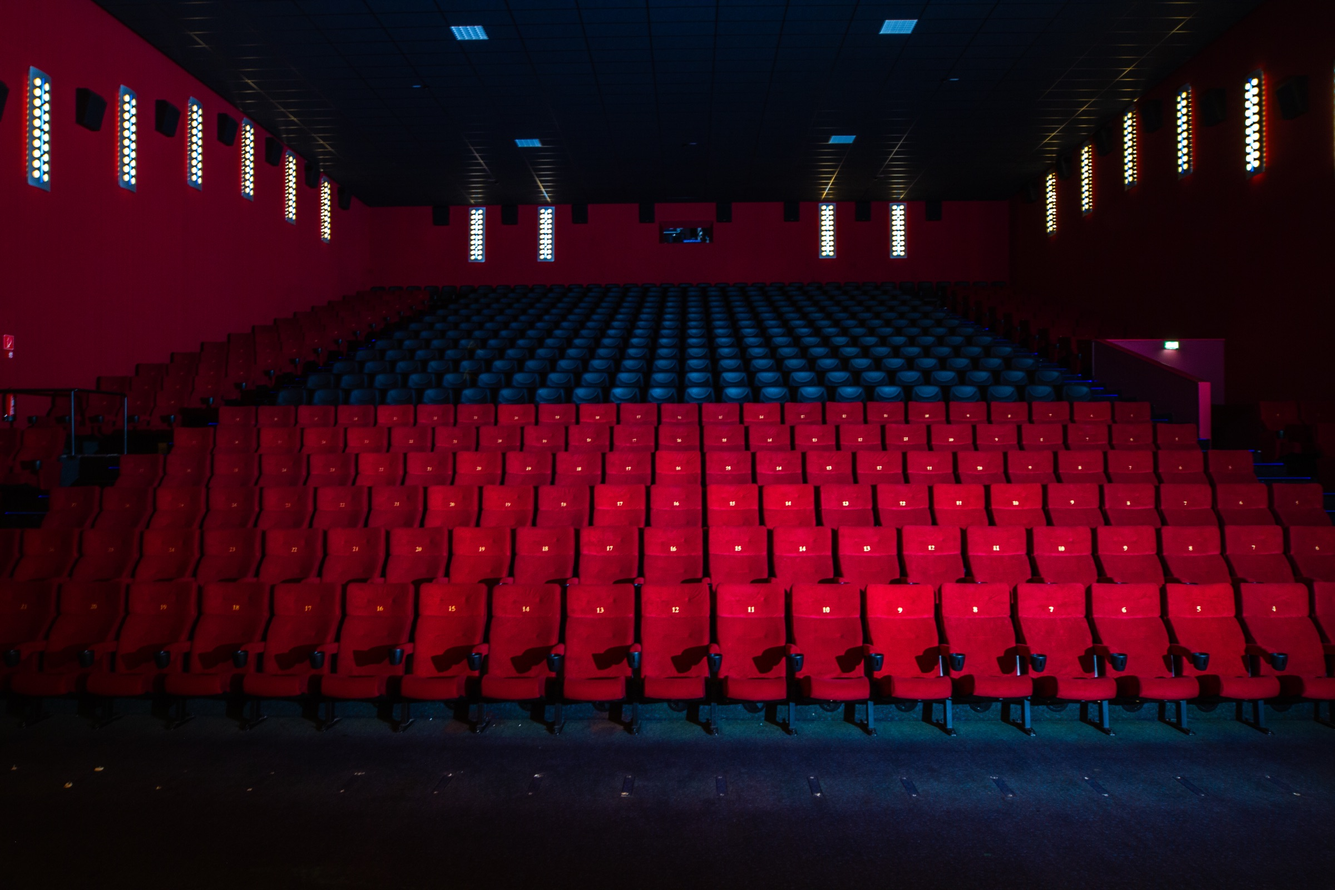
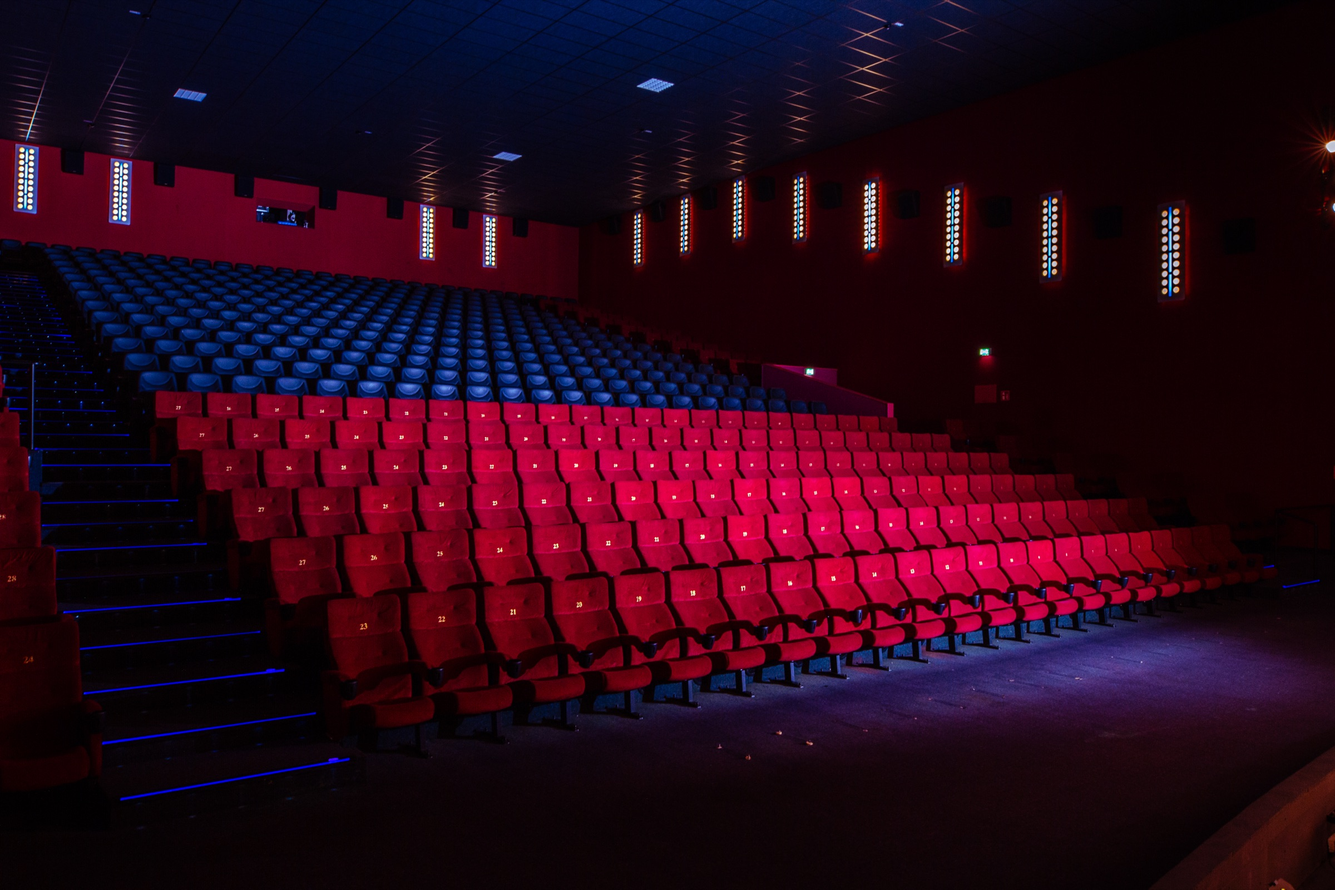
Swap the CINEMOON main auditorium for the angled take
The head-on frame (IMG_1267) flattened the room — rows merged into one
red mass. IMG_1268 shoots the same auditorium from the side, so the rake
of the rows and the stair read at a glance, which is what an agency is
actually looking at.

Same native 3:2, so the ratio and caption in en.ts are unchanged; only
the file is replaced, resized to 2400px at quality 80 to match the other
frames in the case.

diff --git a/plans/2026-08-05-mvp-portfolio.md b/plans/2026-08-05-mvp-portfolio.md
@@ -173,3 +173,9 @@ AppleDouble-сайдкары `._*`. Кэш картинок Next читает к
 показывает как рабочее — годится, персональный `*.vercel-dns-017.com` не обязателен).
 Сертификат на www выпущен, до 2026-11-03. Проверено: апекс отдаёт 307 на www,
 www отдаёт 200, почта не задета.
+
+**2026-08-05, замена кадра CINEMOON.** «Main auditorium» переснят на другой дубль:
+`IMG_1267` (симметрия в лоб) → `IMG_1268` (угловой ракурс, видно перепад рядов и
+лестницу). Исходник 5093×3395, тот же 3:2 — `ratio` и подпись в `en.ts` не трогали,
+подменён только `public/photos/cinemoon-pforzheim/auditorium-main.jpg`
+(sips -Z 2400, качество 80 — как у соседних кадров). Билд чистый.
